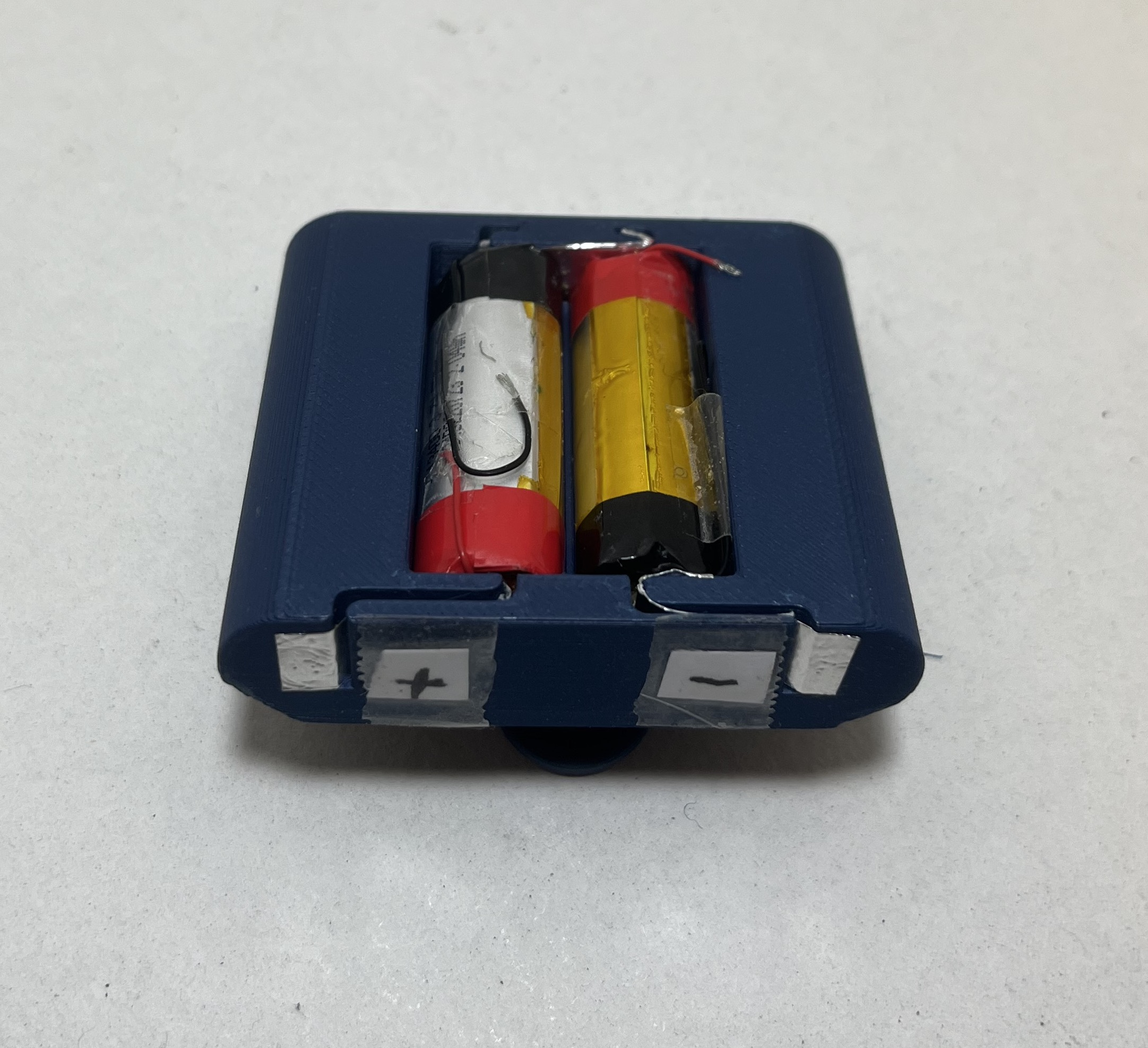
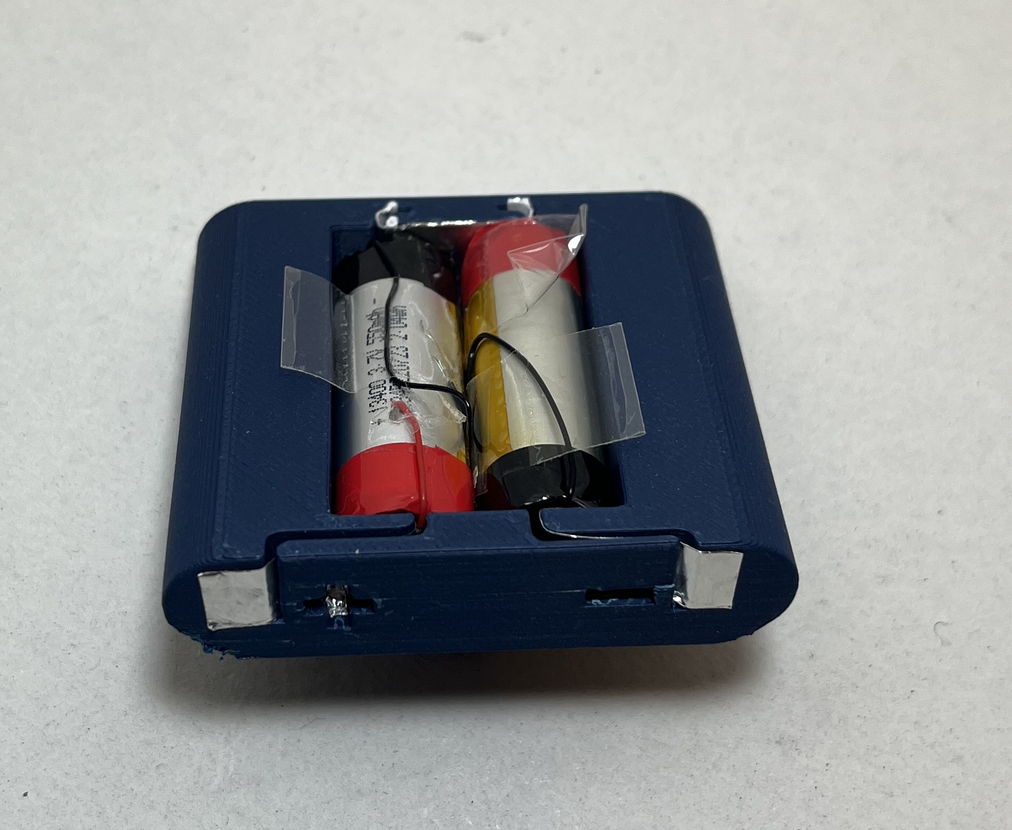
trial

diff --git a/README.md b/README.md
@@ -1,5 +1,8 @@
 # AA_battery_Adapter
 This project aims to create an adapter for a group of 4x1.5V AA alcaline batteries using a couple of salvaged cells from disposable e-cigs.
+## Result
+This is what I came up with. If you want to reproduce it just scroll along and follow my steps!
+<br><img src="Images/042_Adapter_with_cells.jpg" width="300" height="auto">
 
 ## Necessity
 All starts from this vintage, miniaturized electric sewing machine that I found online. For it to work there's the need of 4x1.5V AA alcaline batteries. This is not a big problem, it's enough just to buy 4 batteries. However I personally find it such a short term power solution. In fact as I could eperience, the power drainage is quite consistent from this device. 
@@ -31,4 +34,4 @@ The assembly is rather simple. Just mind the positive and negative position of t
 <br><img src="Images/043_Adapter_closed.jpg" width="300" height="auto"> 
 
 <br>3. The last step is to put the adapter inside the sewing machine. In your case I hope the socket will work with your setting!
-<br><img src="Images/05_Adapter_in_sewing_machine_socket.jpg" width="300" height="auto">
+<br><img src="Images/05_Adapter_in_sewing_machine_socket.gif" width="300" height="auto">
